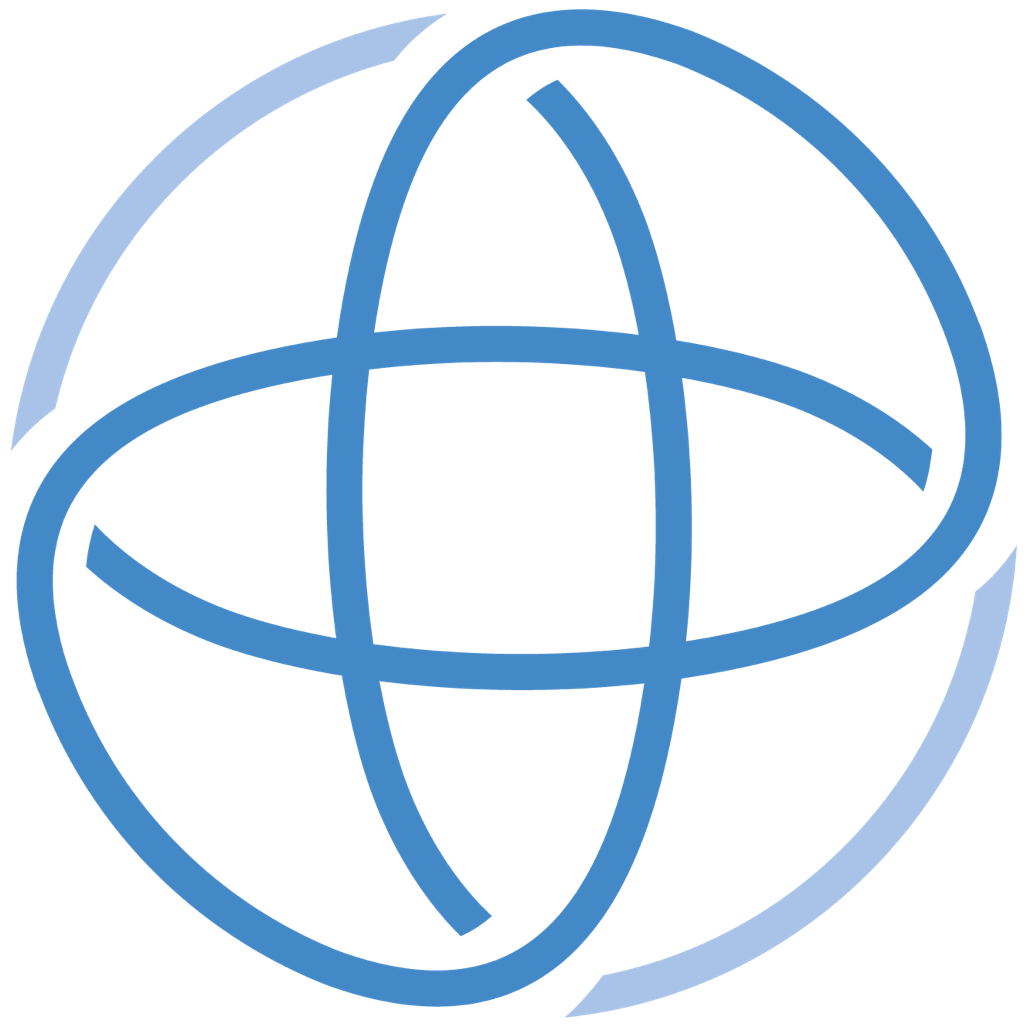
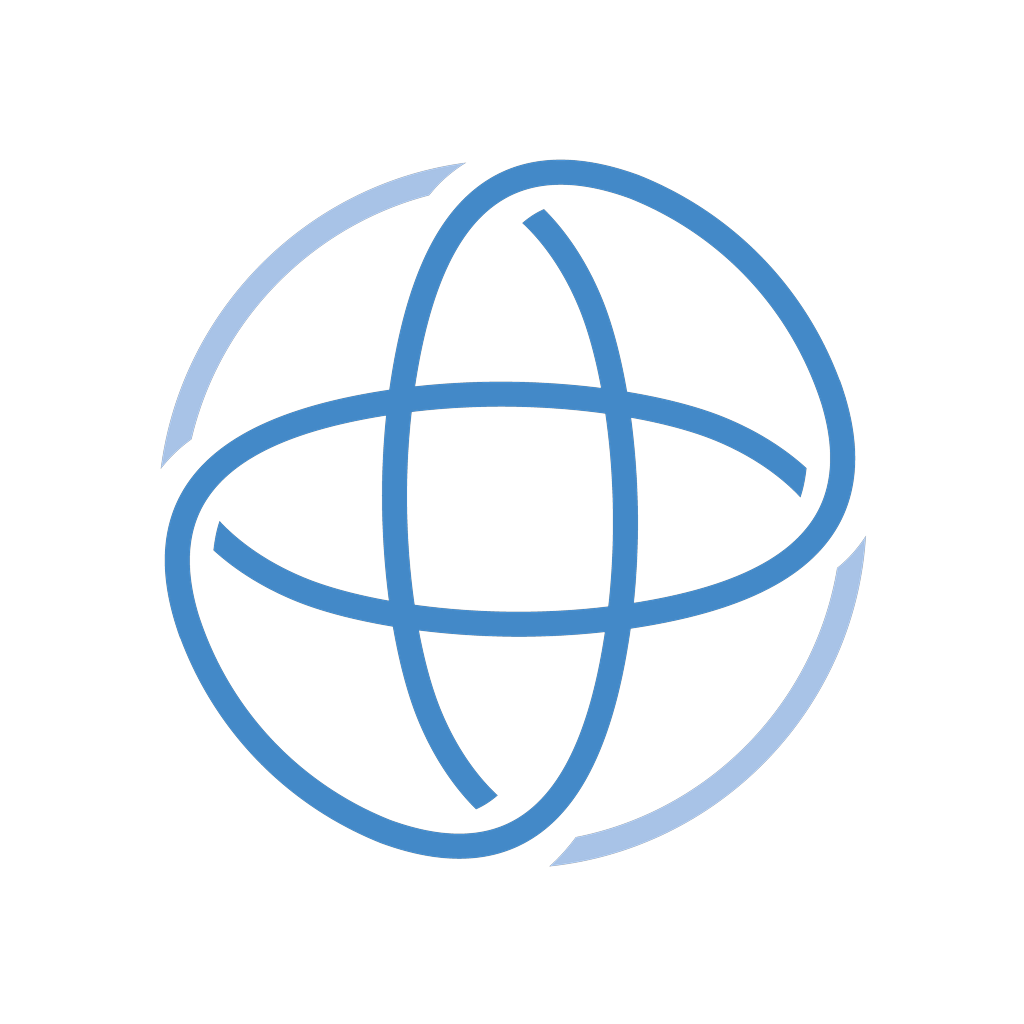
Five improvements
- GSF emblem in header taps through to About tab
- Share message includes SURGpath branding + download link
- Scroll-to-top button (GSF blue circle) appears after scrolling 300px
- About page: disclaimer section on accuracy and third-party content
- App icon: full emblem centred with 10% padding on white background

diff --git a/src/screens/DirectoryScreen.js b/src/screens/DirectoryScreen.js
@@ -1,4 +1,4 @@
-import React, { useMemo, useCallback, useEffect, useState } from 'react';
+import React, { useMemo, useCallback, useEffect, useState, useRef } from 'react';
 import {
   View, Text, TextInput, TouchableOpacity, FlatList,
   StyleSheet, SafeAreaView, RefreshControl, ActivityIndicator,
@@ -41,6 +41,8 @@ export default function DirectoryScreen({ navigation }) {
   const [refreshing, setRefreshing] = useState(false);
   const [loading, setLoading] = useState(true);
   const [syncStatus, setSyncStatus] = useState('');
+  const [showScrollTop, setShowScrollTop] = useState(false);
+  const flatListRef = useRef(null);
 
   async function loadData(isRefresh = false) {
     if (isRefresh) setRefreshing(true);
@@ -144,6 +146,7 @@ export default function DirectoryScreen({ navigation }) {
       </View>
 
       <FlatList
+        ref={flatListRef}
         data={filtered}
         keyExtractor={(item) => item.id}
         renderItem={({ item }) => (
@@ -164,7 +167,19 @@ export default function DirectoryScreen({ navigation }) {
         refreshControl={
           <RefreshControl refreshing={refreshing} onRefresh={onRefresh} tintColor={BLUE} colors={[BLUE]} />
         }
+        onScroll={(e) => setShowScrollTop(e.nativeEvent.contentOffset.y > 300)}
+        scrollEventThrottle={100}
       />
+
+      {showScrollTop && (
+        <TouchableOpacity
+          style={styles.scrollTopBtn}
+          onPress={() => flatListRef.current?.scrollToOffset({ offset: 0, animated: true })}
+          activeOpacity={0.8}
+        >
+          <Ionicons name="chevron-up" size={20} color="#fff" />
+        </TouchableOpacity>
+      )}
     </SafeAreaView>
   );
 }
@@ -253,6 +268,26 @@ const styles = StyleSheet.create({
   syncedText: {
     fontSize: 11,
     color: '#aaa',
+  },
+
+  /* Scroll to top */
+  scrollTopBtn: {
+    position: 'absolute',
+    bottom: 24,
+    alignSelf: 'center',
+    left: '50%',
+    marginLeft: -20,
+    backgroundColor: BLUE,
+    borderRadius: 20,
+    width: 40,
+    height: 40,
+    justifyContent: 'center',
+    alignItems: 'center',
+    shadowColor: '#000',
+    shadowOffset: { width: 0, height: 2 },
+    shadowOpacity: 0.25,
+    shadowRadius: 4,
+    elevation: 6,
   },
 
   /* Misc */

diff --git a/src/screens/AboutScreen.js b/src/screens/AboutScreen.js
@@ -70,6 +70,23 @@ export default function AboutScreen() {
         {/* Divider */}
         <View style={styles.divider} />
 
+        {/* Disclaimer */}
+        <Text style={styles.sectionTitle}>Disclaimer</Text>
+        <Text style={styles.disclaimer}>
+          SURGpath provides links to third-party opportunities for informational purposes only.
+          We do not own, control, or verify the content of external listings, and make no
+          representations regarding their accuracy, completeness, or availability. Deadlines,
+          eligibility criteria, and award details may change without notice — always refer to
+          the official source before applying.
+        </Text>
+        <Text style={styles.disclaimer}>
+          The Global Surgery Foundation accepts no responsibility or liability for any loss or
+          inconvenience arising from reliance on information provided through this app.
+        </Text>
+
+        {/* Divider */}
+        <View style={styles.divider} />
+
         {/* Footer */}
         <Text style={styles.copyright}>
           © {new Date().getFullYear()} The Global Surgery Foundation
@@ -81,9 +98,8 @@ export default function AboutScreen() {
   );
 }
 
-const BLUE  = '#1a3a5c';
+const BLUE  = '#002F4C';
 const GREEN = '#0468B1';
-const LIGHT = '#f0f4f8';
 
 const styles = StyleSheet.create({
   safe: {
@@ -155,6 +171,14 @@ const styles = StyleSheet.create({
     color: '#444',
     lineHeight: 22,
     marginBottom: 12,
+    alignSelf: 'stretch',
+  },
+
+  disclaimer: {
+    fontSize: 12,
+    color: '#888',
+    lineHeight: 19,
+    marginBottom: 10,
     alignSelf: 'stretch',
   },
 

diff --git a/App.js b/App.js
@@ -1,5 +1,5 @@
 import React from 'react';
-import { View, Image } from 'react-native';
+import { View, Image, TouchableOpacity } from 'react-native';
 import { NavigationContainer } from '@react-navigation/native';
 import { createBottomTabNavigator } from '@react-navigation/bottom-tabs';
 import { createNativeStackNavigator } from '@react-navigation/native-stack';
@@ -20,28 +20,27 @@ const HEADER_STYLE = {
   headerTitleStyle: { fontWeight: '700' },
 };
 
-function HeaderLogo() {
-  return (
-    <View style={{ flexDirection: 'row', alignItems: 'center', gap: 8 }}>
-      <Image
-        source={require('./assets/gsf-logo.png')}
-        style={{ width: 28, height: 28, tintColor: '#fff' }}
-        resizeMode="contain"
-      />
-    </View>
-  );
-}
-
 function DirectoryStack() {
   return (
     <Stack.Navigator screenOptions={HEADER_STYLE}>
       <Stack.Screen
         name="Directory"
         component={DirectoryScreen}
-        options={{
+        options={({ navigation }) => ({
           title: 'SURGpath',
-          headerRight: () => <HeaderLogo />,
-        }}
+          headerRight: () => (
+            <TouchableOpacity
+              onPress={() => navigation.getParent()?.navigate('About')}
+              hitSlop={{ top: 8, bottom: 8, left: 8, right: 8 }}
+            >
+              <Image
+                source={require('./assets/gsf-logo.png')}
+                style={{ width: 28, height: 28, tintColor: '#fff' }}
+                resizeMode="contain"
+              />
+            </TouchableOpacity>
+          ),
+        })}
       />
       <Stack.Screen
         name="Detail"

diff --git a/src/screens/DetailScreen.js b/src/screens/DetailScreen.js
@@ -49,7 +49,7 @@ export default function DetailScreen({ route }) {
 
   function handleShare() {
     Share.share({
-      message: `${item.title}\n${item.organization} · ${item.location}\nDeadline: ${formatDeadline(item.deadline)}\n\n${item.summary}${item.url ? '\n\nApply: ' + item.url : ''}`,
+      message: `${item.title}\n${item.organization} · ${item.location}\nDeadline: ${formatDeadline(item.deadline)}\n\n${item.summary}${item.url ? '\n\nApply: ' + item.url : ''}\n\n— Discovered on SURGpath, the directory for global surgery opportunities.\nDownload on iOS & Android: https://surghub.org/pathways`,
       title: item.title,
     });
   }
